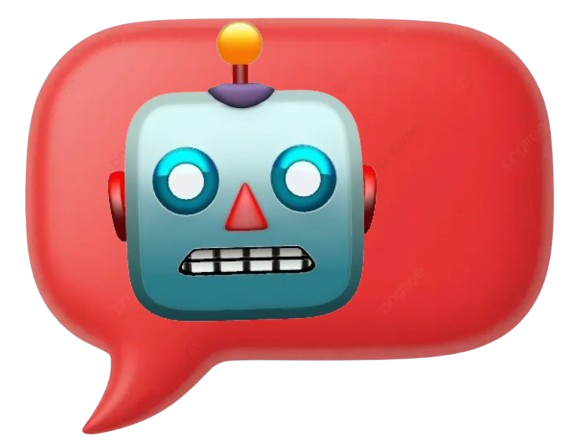
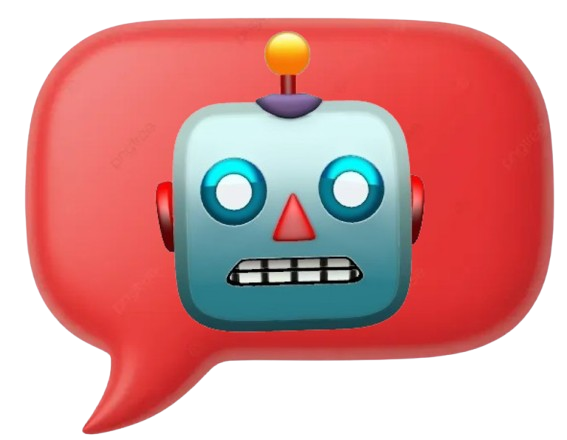
chatbtn 디자인 수정

Changed region(s): [[0.1799, 0.0295, 0.7496, 0.7682]]

diff --git a/css/index.css b/css/index.css
@@ -201,11 +201,12 @@ body {
 
 #grid-chatbtn {
   background: none !important;
+  border-radius: 50%;
   position: fixed;
-  bottom: 90px;
+  bottom: 100px;
   right: 25px;
   width: 79px;   
-  height: 79px;
+  height: 40px;
   display: flex;
   justify-content: center;
   align-items: center;
